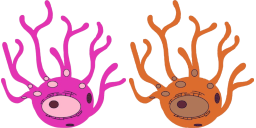
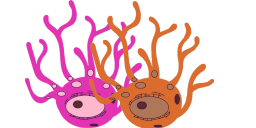
refactor (cell/skin): new control images

diff --git a/playground/scripts/gallery/cell/mutant-cell-sliders-skin-mutant.js b/playground/scripts/gallery/cell/mutant-cell-sliders-skin-mutant.js
@@ -222,7 +222,7 @@ yypyyyyypyyypyyyyyyy
 <subscribe-dcc target="cellular-space" topic="state/reset" map="reset"></subscribe-dcc>
 <subscribe-dcc target="cellular-space" topic="input/changed/space_scale" map="scale"></subscribe-dcc>`,
 `<div style="flex:36px; max-height:36px; display:flex; flex-direction:row">
-   <img src="images/cell/mela-1-to-2.png" style="flex:10%; max-width:72px; max-height:36px">
+   <img src="images/cell/mela-1-duplicates-2.png" style="flex:10%; max-width:72px; max-height:36px">
    &nbsp;
    <div style="flex:40%; max-height:48px; margin-right:10px; font-size: 2vh">
       <dcc-input-choice variable="c1duplicates" reveal="horizontal" exclusive><dcc-input-option value="0" checked>0</dcc-input-option><dcc-input-option value="5">1</dcc-input-option><dcc-input-option value="20">2</dcc-input-option><dcc-input-option value="30">3</dcc-input-option><dcc-input-option value="60">4</dcc-input-option></dcc-input-choice>
